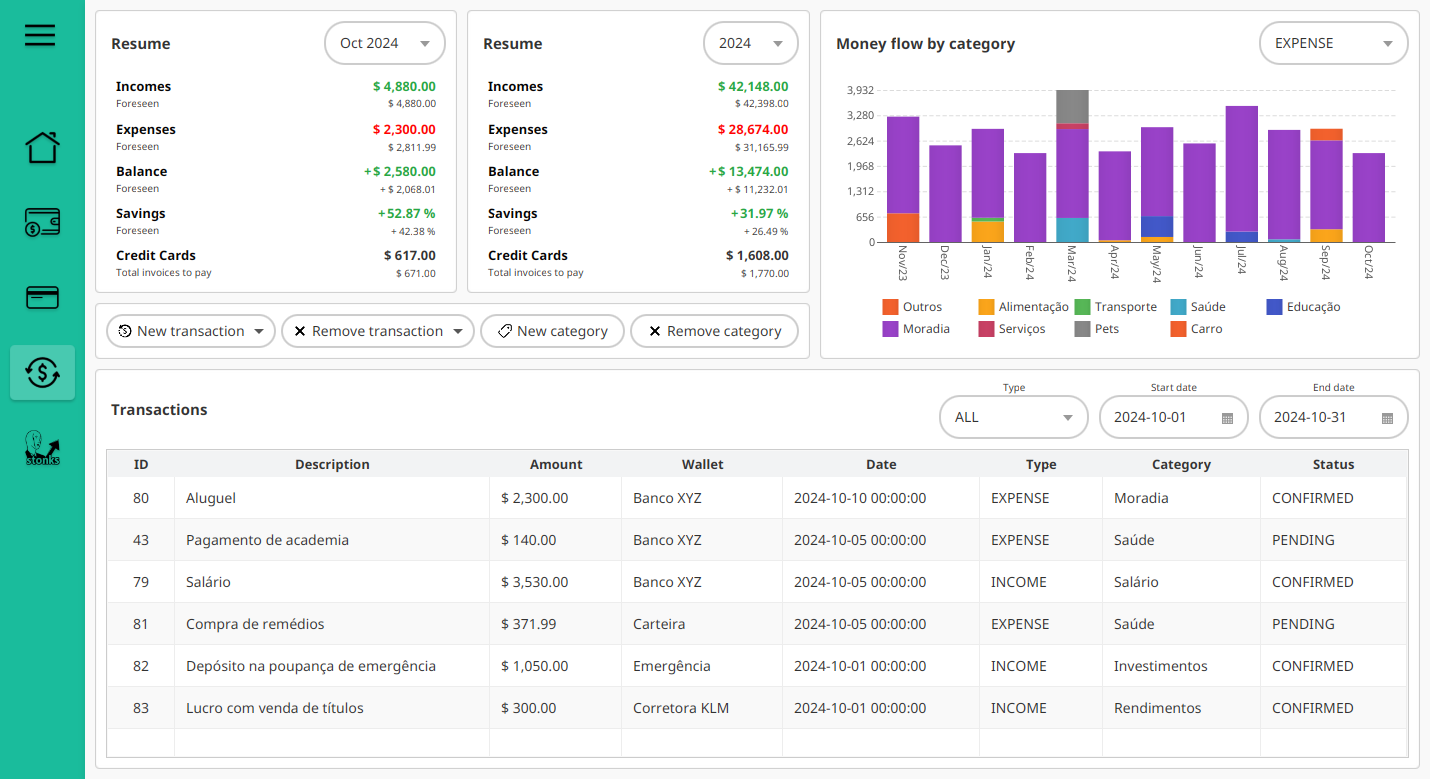
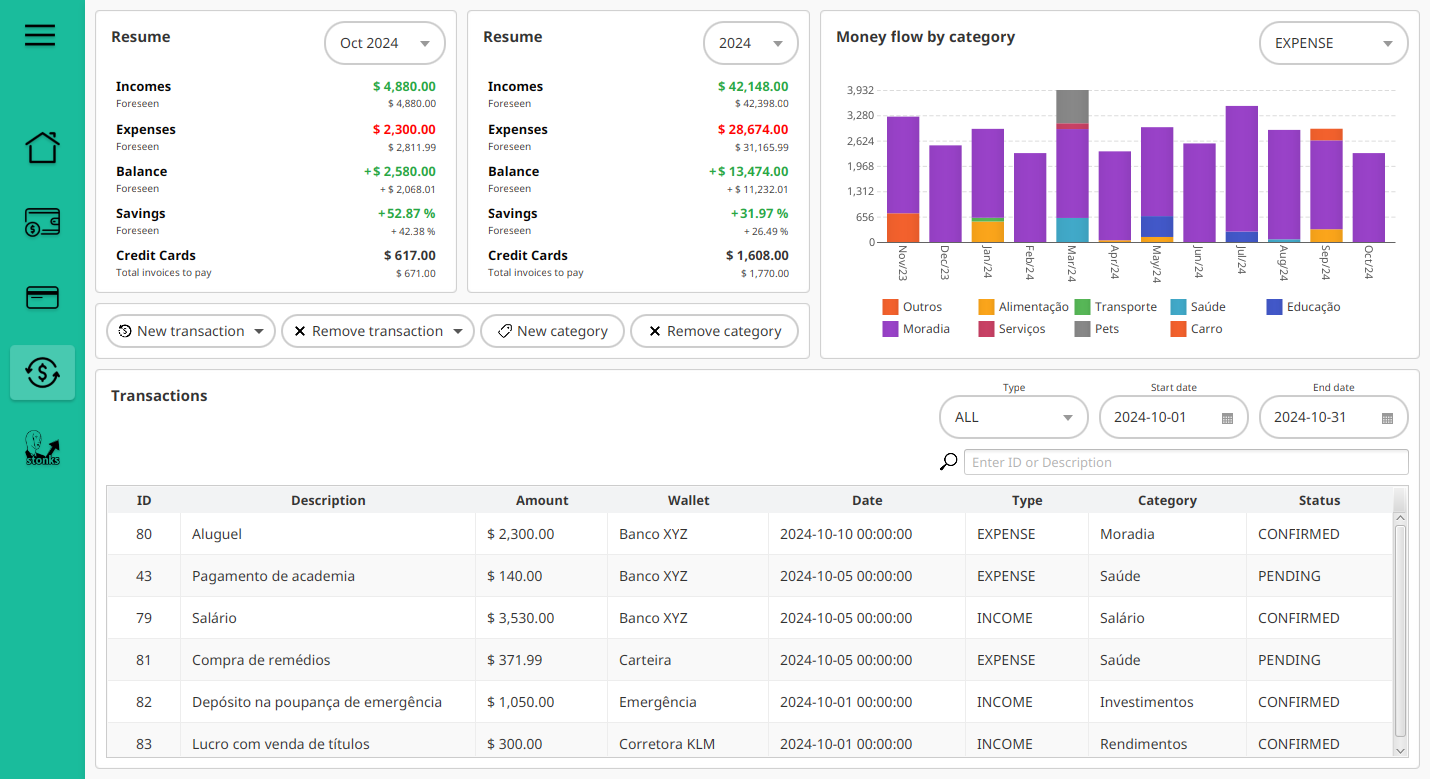
+ Adicionar icone de busca + Adicionar filtro de busca ao table view de transações

diff --git a/src/main/java/org/mymoney/ui/main/TransactionController.java b/src/main/java/org/mymoney/ui/main/TransactionController.java
@@ -34,6 +34,7 @@ import javafx.scene.control.DatePicker;
 import javafx.scene.control.TableCell;
 import javafx.scene.control.TableColumn;
 import javafx.scene.control.TableView;
+import javafx.scene.control.TextField;
 import javafx.scene.layout.AnchorPane;
 import javafx.util.StringConverter;
 import org.mymoney.entities.Category;
@@ -91,6 +92,9 @@ public class TransactionController
 
     @FXML
     private AnchorPane moneyFlowView;
+
+    @FXML
+    private TextField transactionsSearchField;
 
     @Autowired
     private ConfigurableApplicationContext springContext;
@@ -183,6 +187,10 @@ public class TransactionController
 
         transactionsListEndDatePicker.setOnAction(
             event -> { UpdateTransactionTableView(); });
+
+        // Add listener to the search field
+        transactionsSearchField.textProperty().addListener(
+            (observable, oldValue, newValue) -> { UpdateTransactionTableView(); });
     }
 
     @FXML
@@ -232,6 +240,9 @@ public class TransactionController
      */
     private void UpdateTransactionTableView()
     {
+        // Get the search text
+        String similarTextOrId = transactionsSearchField.getText().toLowerCase();
+
         // Get selected values from the comboboxes
         TransactionType selectedTransactionType =
             transactionsListTransactionTypeComboBox.getValue();
@@ -245,19 +256,30 @@ public class TransactionController
         transactionsListTableView.getItems().clear();
 
         // Fetch all transactions within the selected range and filter by transaction
-        // type
-        // If transaction type is null, all transactions are fetched
-        List<WalletTransaction> filteredTransactions =
+        // type. If transaction type is null, all transactions are fetched
+        if (similarTextOrId.isEmpty())
+        {
             walletService.GetTransactionsBetweenDates(startDate, endDate)
                 .stream()
                 .filter(t
                         -> selectedTransactionType == null ||
                                t.GetType().equals(selectedTransactionType))
-                .toList();
-        // Preenche o TableView com uma lista de transações filtradas
-        ObservableList<WalletTransaction> transactions =
-            FXCollections.observableArrayList(filteredTransactions);
-        transactionsListTableView.setItems(transactions);
+                .forEach(transactionsListTableView.getItems()::add);
+        }
+        else
+        {
+            walletService.GetTransactionsBetweenDates(startDate, endDate)
+                .stream()
+                .filter(t
+                        -> selectedTransactionType == null ||
+                               t.GetType().equals(selectedTransactionType))
+                .filter(t
+                        -> t.GetDescription().toLowerCase().contains(similarTextOrId) ||
+                               String.valueOf(t.GetId()).contains(similarTextOrId))
+                .forEach(transactionsListTableView.getItems()::add);
+        }
+
+        transactionsListTableView.refresh();
     }
 
     /**

diff --git a/src/main/java/org/mymoney/ui/dialog/RemoveTransactionController.java b/src/main/java/org/mymoney/ui/dialog/RemoveTransactionController.java
@@ -6,8 +6,6 @@
 
 package org.mymoney.ui.dialog;
 
-import static org.mockito.ArgumentMatchers.shortThat;
-
 import java.util.List;
 import javafx.beans.property.SimpleObjectProperty;
 import javafx.beans.property.SimpleStringProperty;
@@ -201,11 +199,9 @@ public class RemoveTransactionController
         }
 
         incomes.stream()
-            .filter(
-                transaction
-                -> transaction.GetDescription().toLowerCase().contains(
-                       similarTextOrId) ||
-                       String.valueOf(transaction.GetId()).contains(similarTextOrId))
+            .filter(t
+                    -> t.GetDescription().toLowerCase().contains(similarTextOrId) ||
+                           String.valueOf(t.GetId()).contains(similarTextOrId))
             .forEach(transactionsTableView.getItems()::add);
 
         transactionsTableView.refresh();
